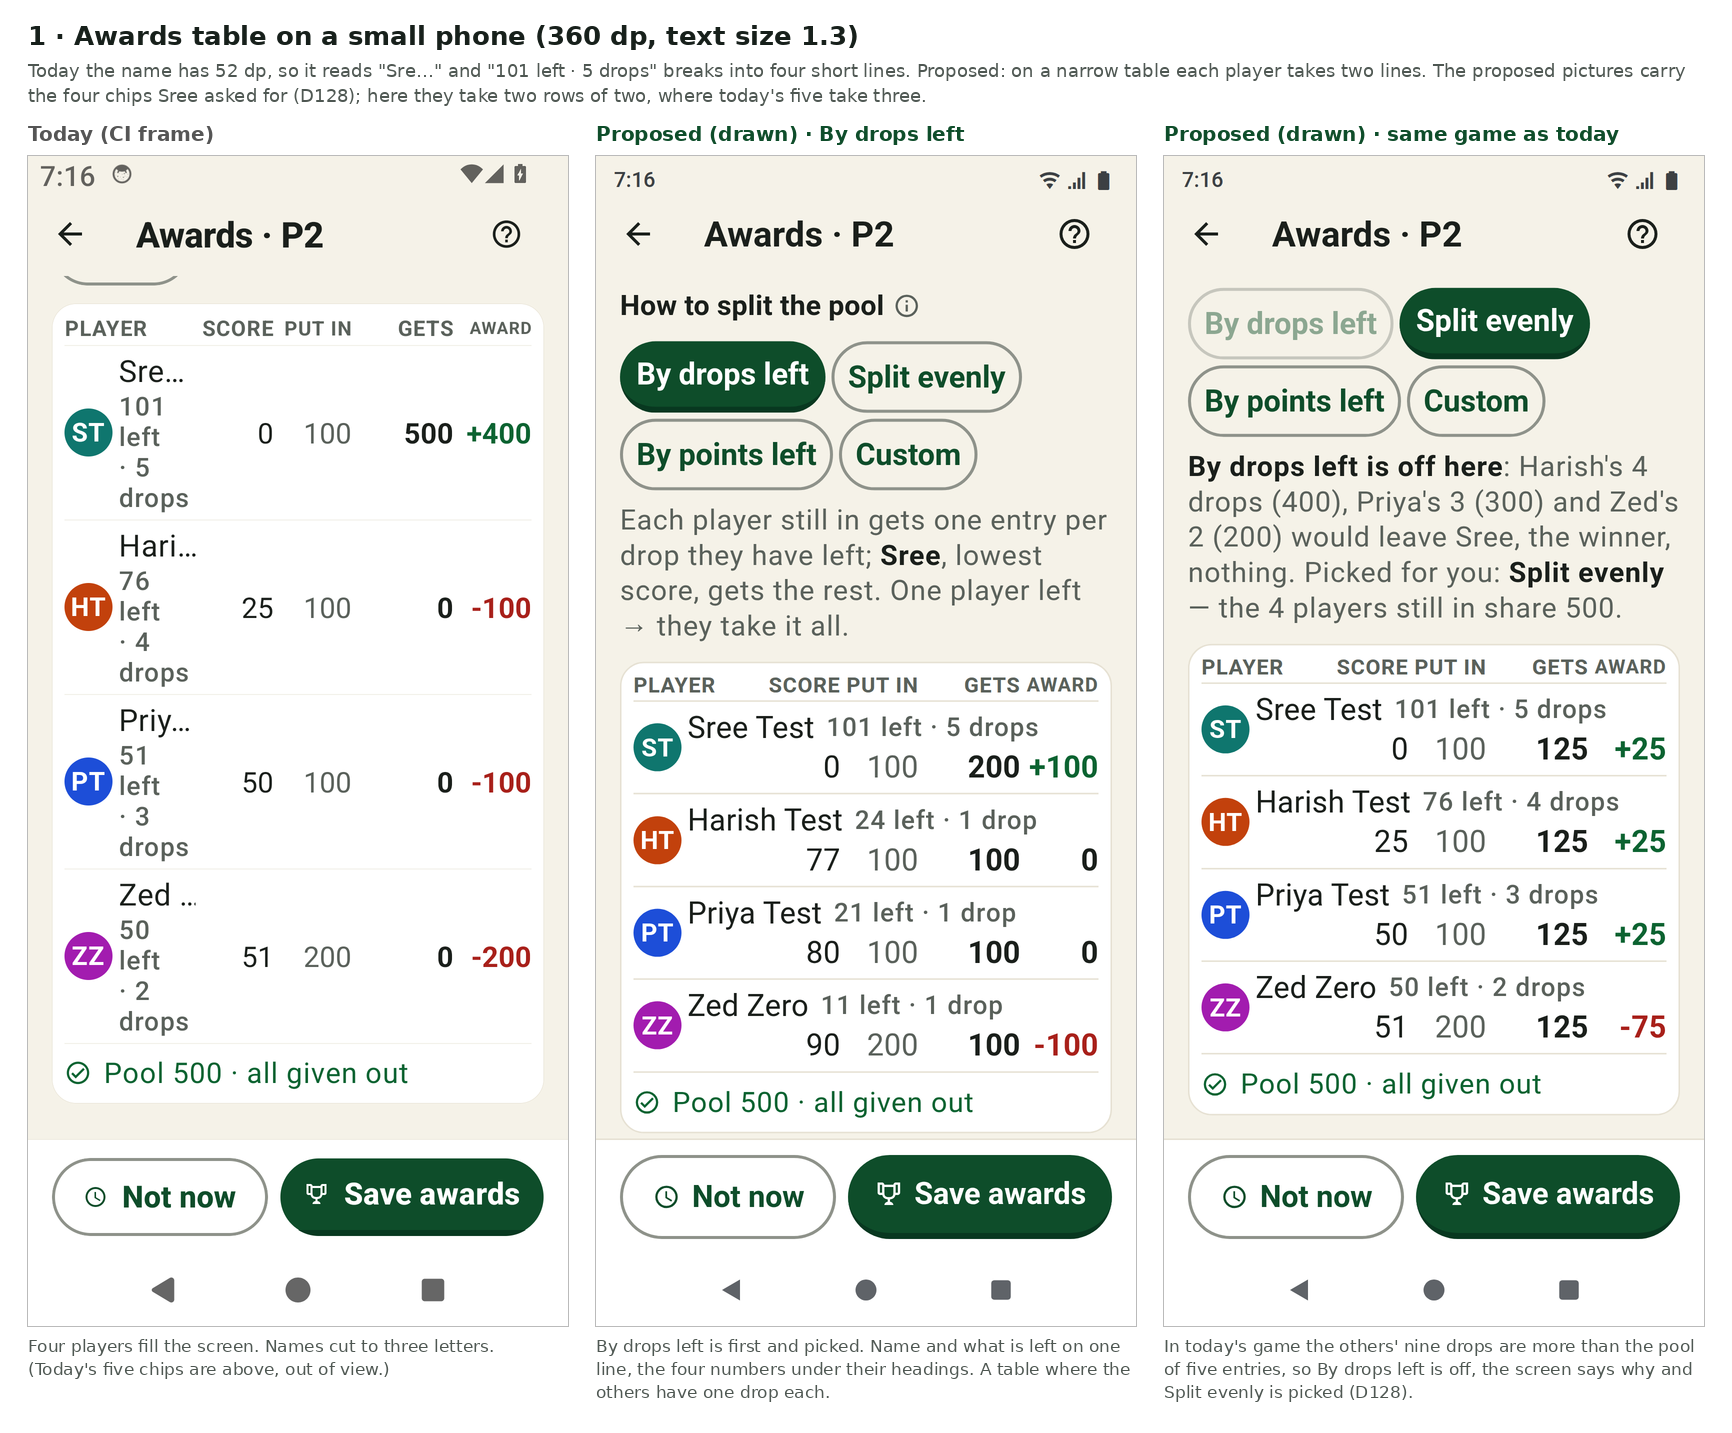
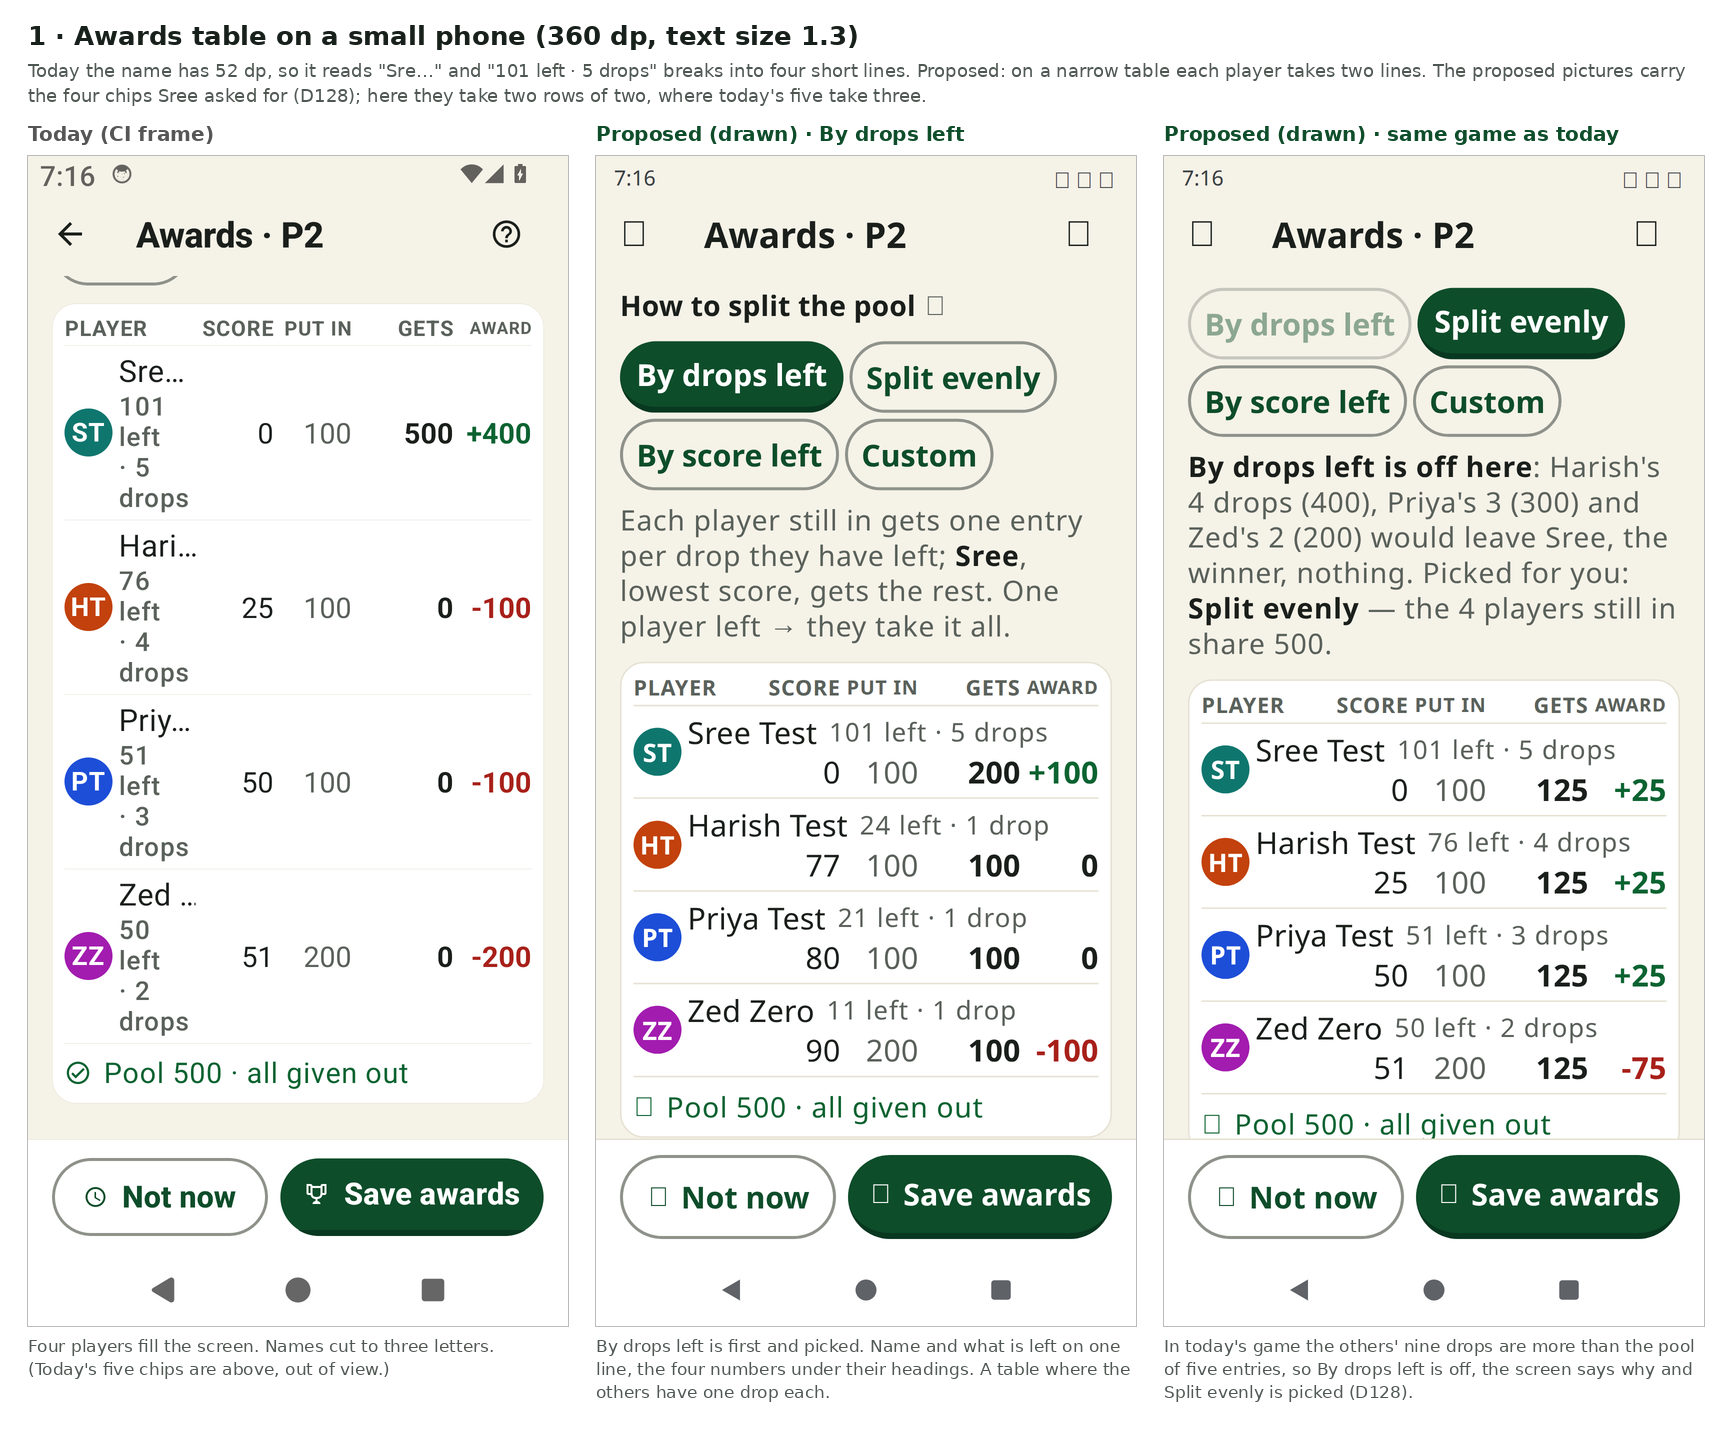
Awards picture: the third chip is By score left (D129)

diff --git a/rummy-home3/docs/small-phone-360/make-small-phone-360.py b/rummy-home3/docs/small-phone-360/make-small-phone-360.py
@@ -197,7 +197,7 @@ NAV_SIDE = NAV.replace('class="nav"', 'class="nav side"')
 def _rows(*rows): return [(n, i, st, str(sc), str(put), str(gets), f'+{gets - put}' if gets > put else str(gets - put)) for n, i, st, sc, put, gets in rows]
 
 # `today` is the game in the CI frame (pool 101, drop 25, entry 100, five entries: Zed came back in once).
-# The proposed chips are D128's four: By drops left (the default) · Split evenly · By points left · Custom.
+# The proposed chips are D128's four: By drops left (the default) · Split evenly · By score left · Custom.
 # In the CI game the others have 4 + 3 + 2 drops left, nine entries against a pool of five, so D23's rule
 # turns By drops left off: D128 then says why under the chips and picks Split evenly (`even`).
 # `drops` is the same table one round on, where the others have one drop each and By drops left applies.
@@ -208,12 +208,12 @@ AWARDS = {
         rows=_rows(('Sree Test', 'ST', '101 left · 5 drops', 0, 100, 500), ('Harish Test', 'HT', '76 left · 4 drops', 25, 100, 0),
                    ('Priya Test', 'PT', '51 left · 3 drops', 50, 100, 0), ('Zed Zero', 'ZZ', '50 left · 2 drops', 51, 200, 0))),
     'drops': dict(
-        chips=[('By drops left', 'on'), ('Split evenly', 'off'), ('By points left', 'off'), ('Custom', 'off')],
+        chips=[('By drops left', 'on'), ('Split evenly', 'off'), ('By score left', 'off'), ('Custom', 'off')],
         line='Each player still in gets one entry per drop they have left; <b>Sree</b>, lowest score, gets the rest. One player left → they take it all.',
         rows=_rows(('Sree Test', 'ST', '101 left · 5 drops', 0, 100, 200), ('Harish Test', 'HT', '24 left · 1 drop', 77, 100, 100),
                    ('Priya Test', 'PT', '21 left · 1 drop', 80, 100, 100), ('Zed Zero', 'ZZ', '11 left · 1 drop', 90, 200, 100))),
     'even': dict(
-        chips=[('By drops left', 'off dim'), ('Split evenly', 'on'), ('By points left', 'off'), ('Custom', 'off')],
+        chips=[('By drops left', 'off dim'), ('Split evenly', 'on'), ('By score left', 'off'), ('Custom', 'off')],
         anchor='.chips',                                     # the reason is a line longer: start at the chips so the last row shows
         line='<b>By drops left is off here</b>: Harish\'s 4 drops (400), Priya\'s 3 (300) and Zed\'s 2 (200) would leave Sree, the winner, nothing. '
              'Picked for you: <b>Split evenly</b> — the 4 players still in share 500.',

diff --git a/rummy-home3/docs/small-phone-360.md b/rummy-home3/docs/small-phone-360.md
@@ -89,7 +89,7 @@ the same columns, and the name gets about 125 dp (12 letters). In Custom, the bo
 line where the Gets number is.
 
 **Chips.** The proposed pictures show the four chips Sree asked for (D128: By drops left, the default · Split
-evenly · By points left · Custom), not today's five; at 360 dp × 1.3 the four do not fit one row and take two rows
+evenly · By score left · Custom), not today's five; at 360 dp × 1.3 the four do not fit one row and take two rows
 of two (today's five take three), and by the same drawing the Pixel 6 gets three and Custom on a second row. In
 the game CI photographs, By drops left is off by D128's own rule (the others' nine drops are more than the pool
 of five entries), so the picture has two proposed halves: a table where By drops left applies and is picked, and
